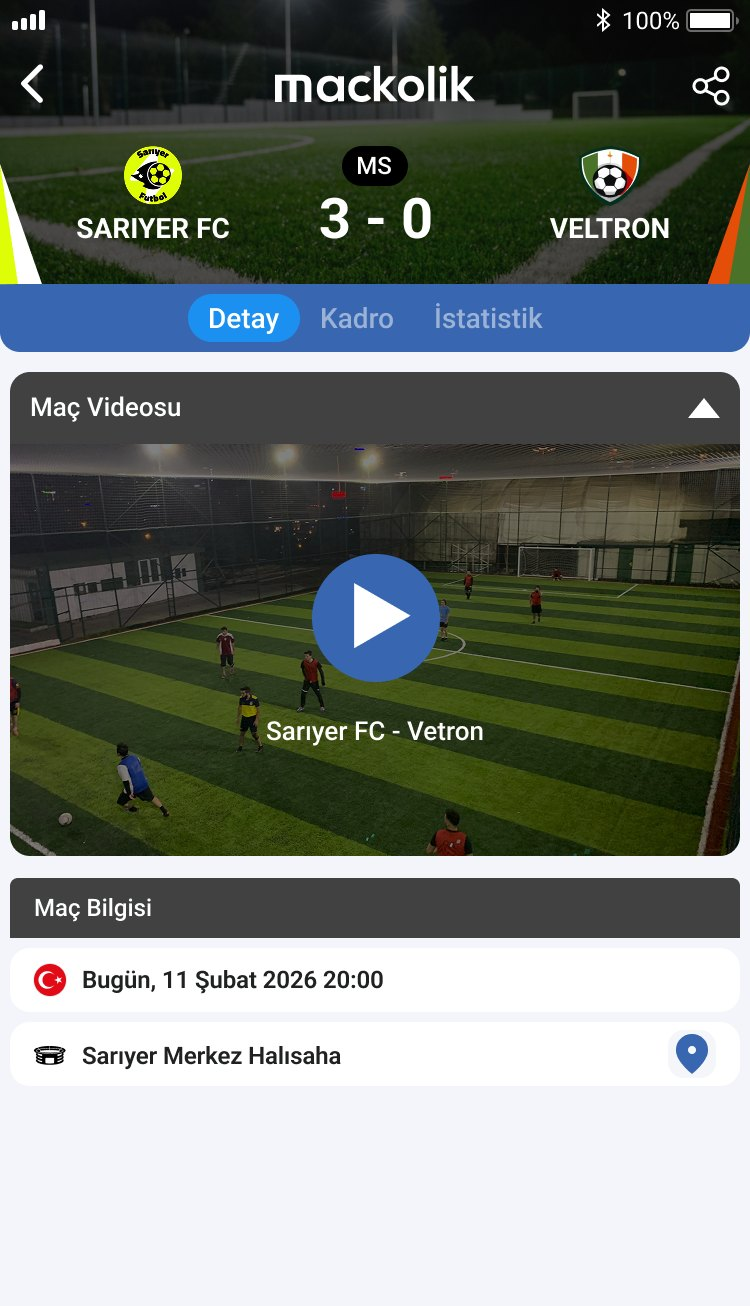
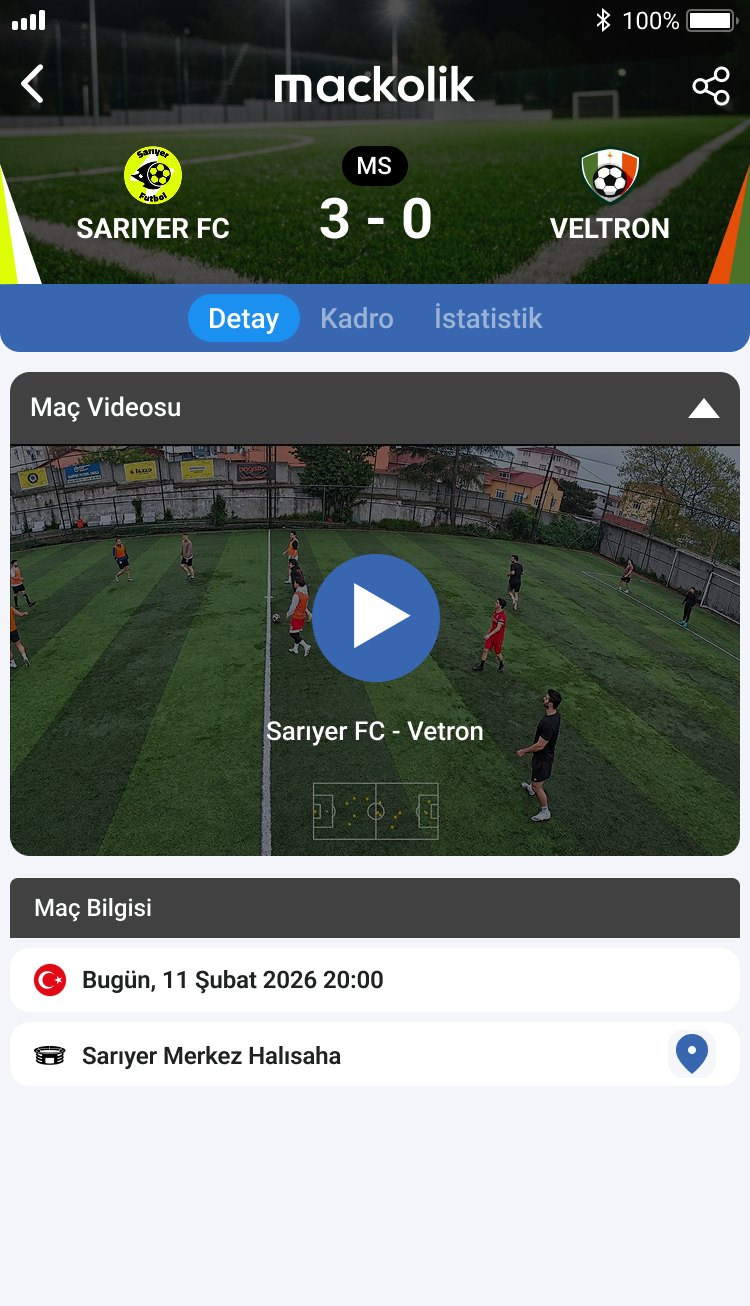
fix: 02, 04, 05, 08 adımları kamera görüntüsü ortalanmış revize ekranlarla değişti

Changed region(s): [[0.0, 0.3369, 1.0, 0.6738], [0.0307, 0.6432, 0.0613, 0.6738]]

diff --git a/public/static-mahalle.html b/public/static-mahalle.html
@@ -397,7 +397,7 @@ p { margin: 0; text-wrap: pretty; }
           <div><span class="step-no">04 · Sahiplen</span><h3>Takımını sahiplen.</h3><p>Oynadığın maçta takımlar henüz sahipsiz. Takım kaptanları takımlarını sahiplendiğinde karşılaşma Mackolik’te yayınlanır.</p></div>
         </li>
         <li class="step">
-          <div class="phone"><div class="screen"><img src="https://www.mackolik.com/static-files/mahalle/media/step-05-kadro.jpg" width="750" height="1518" loading="lazy" alt="Maç detayı, Kadro sekmesi: maçta oynayan oyuncular, goller, kartlar ve oyuncu değişiklikleri"></div></div>
+          <div class="phone"><div class="screen"><img src="https://www.mackolik.com/static-files/mahalle/media/step-05-kadro.jpg" width="750" height="1968" loading="lazy" alt="Kadro sekmesi: saha fotoğrafında numaralı oyuncular ve kadro listesi"></div></div>
           <div><span class="step-no">05 · Kadro</span><h3>Kadronu tanımla.</h3><p>Takım kaptanları, maçta oynayan futbolcuları Kadro sekmesine eklediğinde, karşılaşma bu oyuncuların profillerine işlenir.</p></div>
         </li>
         <li class="step">
